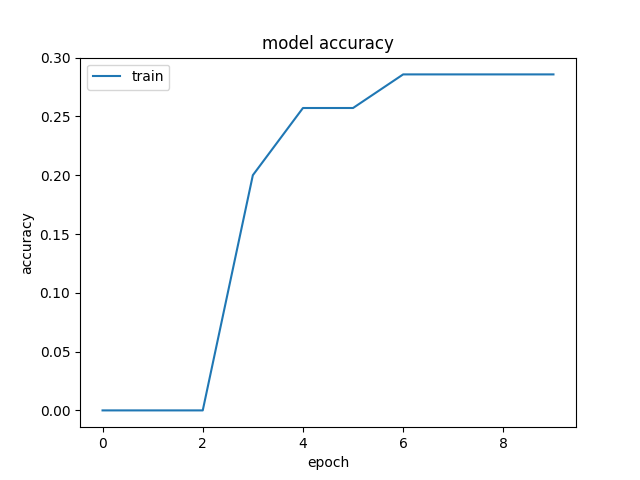
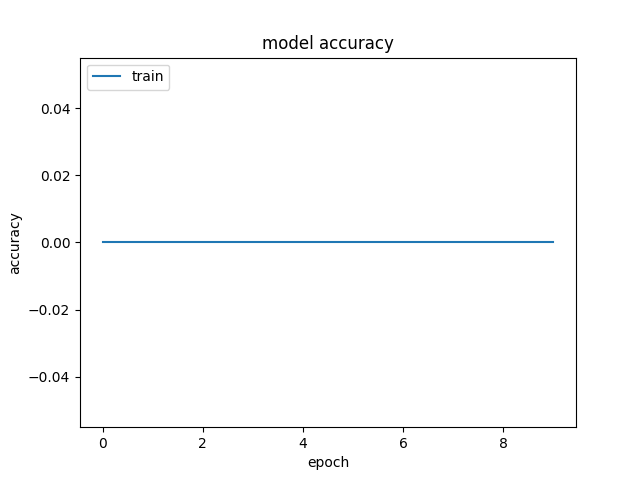
updated py file (not ipynb)

diff --git a/wildfire.py b/wildfire.py
@@ -24,13 +24,18 @@ X_label = [label for label in feature_list if label not in remove_label]
 y_label = "burned_areas"
 
 # take the first 5 time steps for all x and y to try creating a smaller dataset
-num_samples = 10
+num_samples = 100
 timesteps_per_sample = 5
 width_limit = 100
 height_limit = 100
 timestep_samples = num_samples*timesteps_per_sample
-dataset = wildfire_dataset.isel(time=slice(None,timestep_samples), x=slice(None,width_limit), y=slice(None,height_limit))
-print(dataset)
+# partial dataset
+# dataset = wildfire_dataset.isel(time=slice(None,timestep_samples), x=slice(None,width_limit), y=slice(None,height_limit))
+
+# full dataset
+dataset = wildfire_dataset.isel(time=slice(None,timestep_samples))
+
+# print(dataset)
 # dataset_head = wildfire_dataset.head(indexers={"time": timestep_samples})
 # print(dataset_head)
 
@@ -74,7 +79,8 @@ for index, feature in enumerate(list(dataset_X.data_vars)):
 
 if 1 in dataset_y_np:
     print("Fire exists") 
-print("Output classes: ", np.unique(dataset_y_np))
+output_classes = np.unique(dataset_y_np)
+print("Output classes: ", output_classes)
 # class_weights = class_weight.compute_class_weight(class_weight = "balanced", classes = np.unique(wf_dataset_y_np), y = wf_dataset_y_np)
 # print(class_weights)
 
@@ -103,8 +109,9 @@ y_test = dataset_y_np_split[1]
 #(samples, time, rows, cols, channels)
 # Loop through each feature
 for i in range(X_train.shape[4]):
-    print("X_train[:,:,:,;,i].shape: ", X_train[:,:,:,:,i].shape)
-    print("X_test[:,:,:,;,i].shape: ", X_test[:,:,:,:,i].shape)
+    # print("X_train[:,:,:,;,i].shape: ", X_train[:,:,:,:,i].shape)
+    # print("X_test[:,:,:,;,i].shape: ", X_test[:,:,:,:,i].shape)
+    print("Normalizing " + str(i) + " out of " + str(X_train.shape[4]))
     
     # Replace NaNs with mean or median
     X_train[np.isnan(X_train)] = np.nanmean(X_train[:,:,:,:,i])
@@ -148,6 +155,7 @@ def build_ConvLSTM():
     # https://www.baeldung.com/cs/convolutional-layer-size
     # image width/height - sum(kernel width/height) + num_kernels
     # kernel_size=(1, width_limit-11+4, height_limit-11+4)
+    # https://keras.io/api/layers/recurrent_layers/time_distributed/
     convlstm.compile(
         loss=losses.binary_crossentropy, optimizer=optimizers.Adam(), metrics=[tf.keras.metrics.Accuracy()]
     )
@@ -157,8 +165,12 @@ model = build_ConvLSTM()
 print(model.summary())
 epochs = 10
 batch_size = 1
+class_weight = dict.fromkeys(output_classes)
+class_weight[output_classes[0]] = 0.1
+class_weight[output_classes[1]] = 0.9
+print(class_weight)
 # y_train_test = np.expand_dims(y_train, axis=(2,3,4))
-history = model.fit(X_train, y_train, epochs=epochs, batch_size=batch_size, verbose=True)
+history = model.fit(X_train, y_train, epochs=epochs, batch_size=batch_size, class_weight=class_weight, verbose=True)
 
 # print model keys
 print(history.history.keys())
